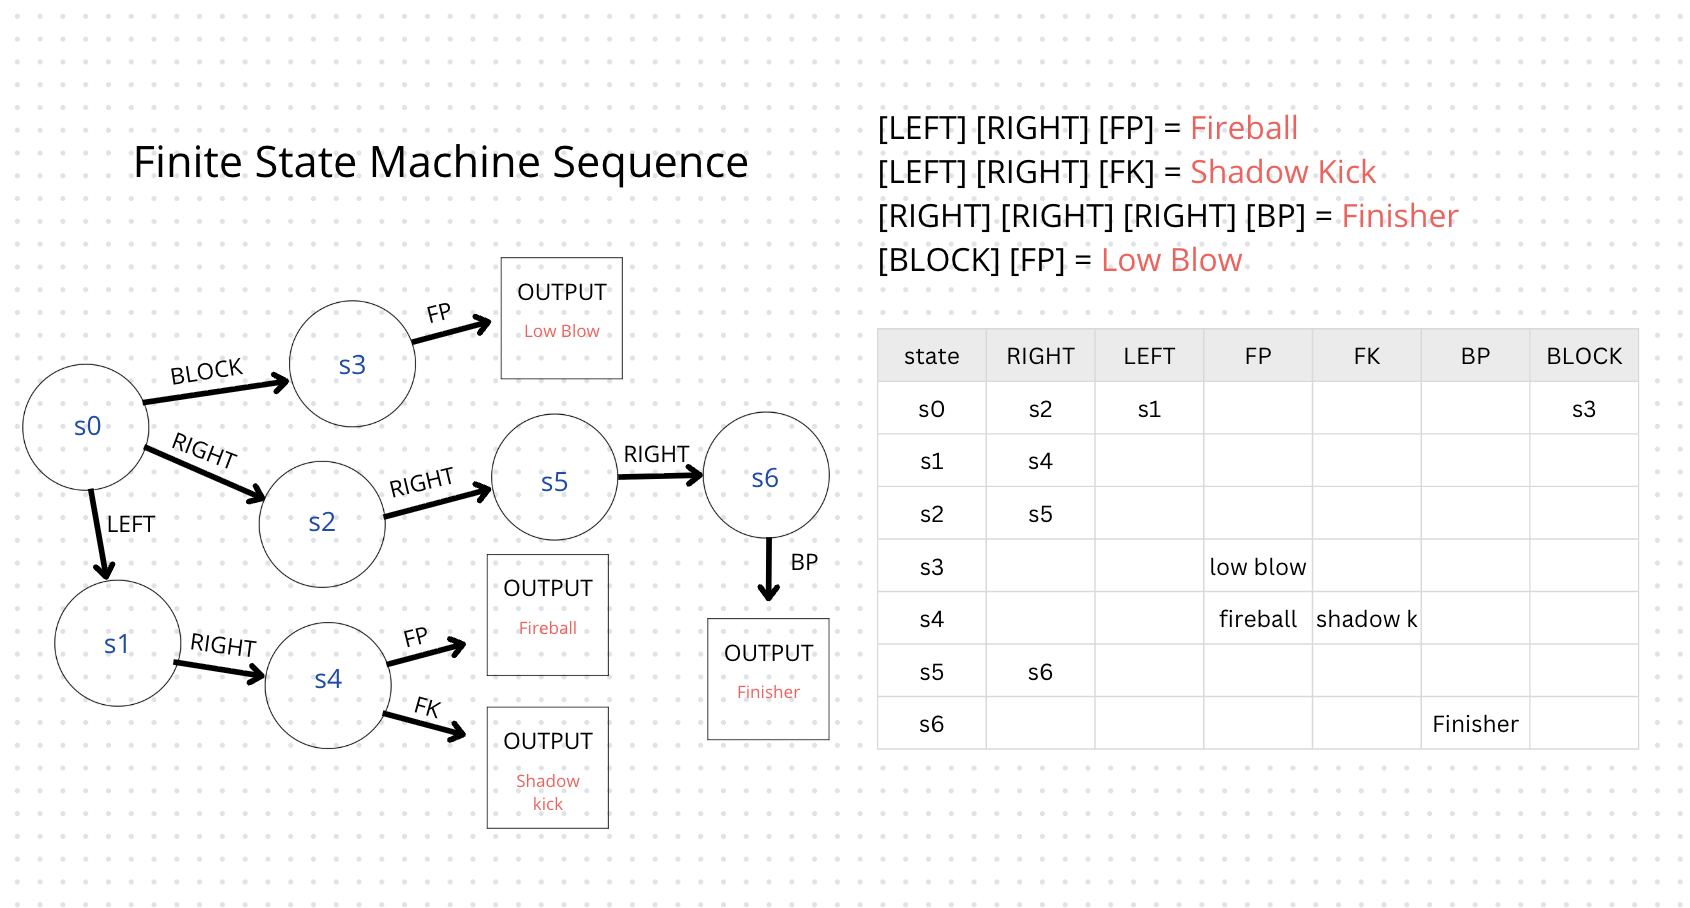
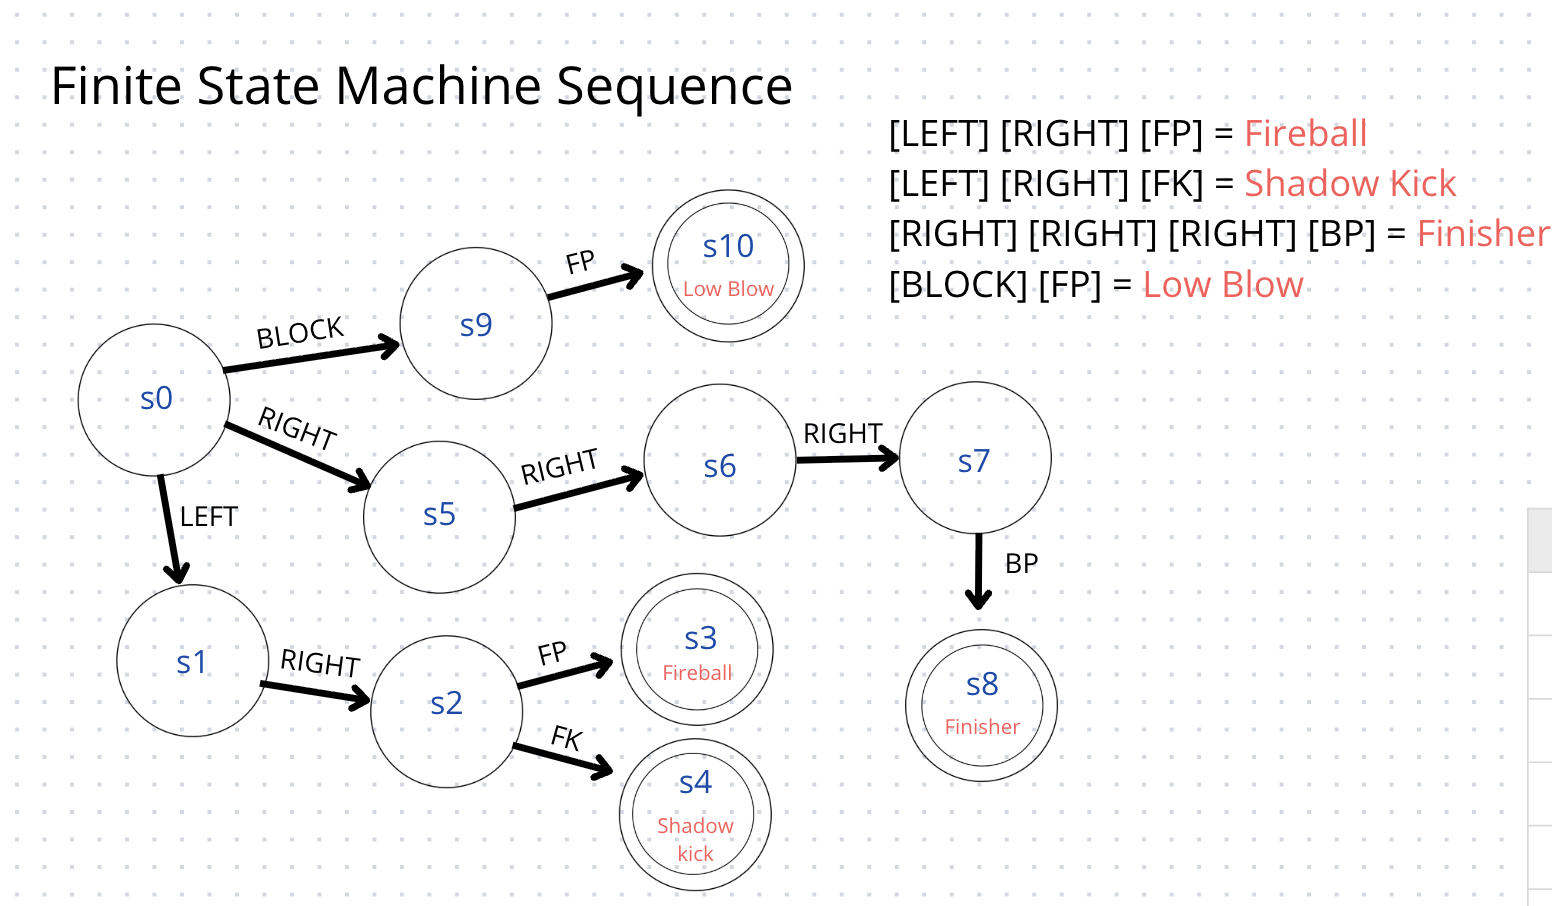
feat: add state transitions generation in c++

diff --git a/docs/example.cpp b/docs/example.cpp
@@ -1,0 +1,115 @@
+#include <vector>
+#include <string>
+#include <iostream>
+
+enum control
+{
+    LEFT,
+    RIGHT,
+    FRONTKICK,
+    FRONTPUNCH,
+    BACKPUNCH,
+    BLOCK
+};
+
+typedef struct state
+{
+    std::vector<std::pair<control, int>> transitions;
+    std::string output;
+} t_state;
+
+typedef std::pair<std::vector<control>, std::string> rule;
+
+std::string control_to_string(const control &c)
+{
+    switch (c)
+    {
+    case LEFT:
+        return "Left";
+    case RIGHT:
+        return "Right";
+    case FRONTKICK:
+        return "FrontKick";
+    case FRONTPUNCH:
+        return "FrontPunch";
+    case BACKPUNCH:
+        return "BackPunch";
+    case BLOCK:
+        return "Block";
+    }
+}
+
+void print_states(std::vector<t_state> &states)
+{
+    int i = 0;
+    for (auto state = states.begin(); state != states.end(); state++, i++)
+    {
+        std::cout << "\n\nState: " << i << std::endl;
+        for (auto transition = state->transitions.begin(); transition != state->transitions.end(); transition++)
+        {
+            std::cout << control_to_string(transition->first) << " -> " << transition->second << std::endl;
+        }
+
+        if (!state->output.empty())
+            std::cout << "Output: " << state->output << std::endl;
+    }
+}
+
+void create_rules(std::vector<rule> &rules)
+{
+    std::vector<control> controls = {LEFT, RIGHT, FRONTPUNCH};
+    rules.push_back(std::make_pair(controls, "Fireball"));
+
+    controls = {LEFT, RIGHT, FRONTKICK};
+    rules.push_back(std::make_pair(controls, "Shadow Kick"));
+
+    controls = {RIGHT, RIGHT, RIGHT, BACKPUNCH};
+    rules.push_back(std::make_pair(controls, "Finisher"));
+
+    controls = {BLOCK, FRONTPUNCH};
+    rules.push_back(std::make_pair(controls, "Low Blow"));
+}
+
+int get_transition(const control c, const state &s)
+{
+    for (auto transition = s.transitions.begin(); transition != s.transitions.end(); transition++)
+        if (transition->first == c)
+            return transition->second;
+
+    return -1;
+}
+
+int main()
+{
+    std::vector<t_state> states;
+    std::vector<rule> rules;
+
+    create_rules(rules);
+
+    // initial empty state
+    states.push_back({});
+
+    for (auto iter = rules.begin(); iter != rules.end(); iter++)
+    {
+        int current_state = 0;
+        for (auto input = iter->first.begin(); input != iter->first.end(); input++)
+        {
+            int transition = get_transition(*input, states[current_state]);
+            if (transition == -1)
+            {
+                int new_state_index = states.size();
+                states[current_state].transitions.push_back(std::make_pair(*input, new_state_index));
+                // create new empty state
+                states.push_back({});
+
+                transition = new_state_index;
+            }
+
+            current_state = transition;
+        }
+
+        states[current_state].output = iter->second;
+    }
+
+    print_states(states);
+}
